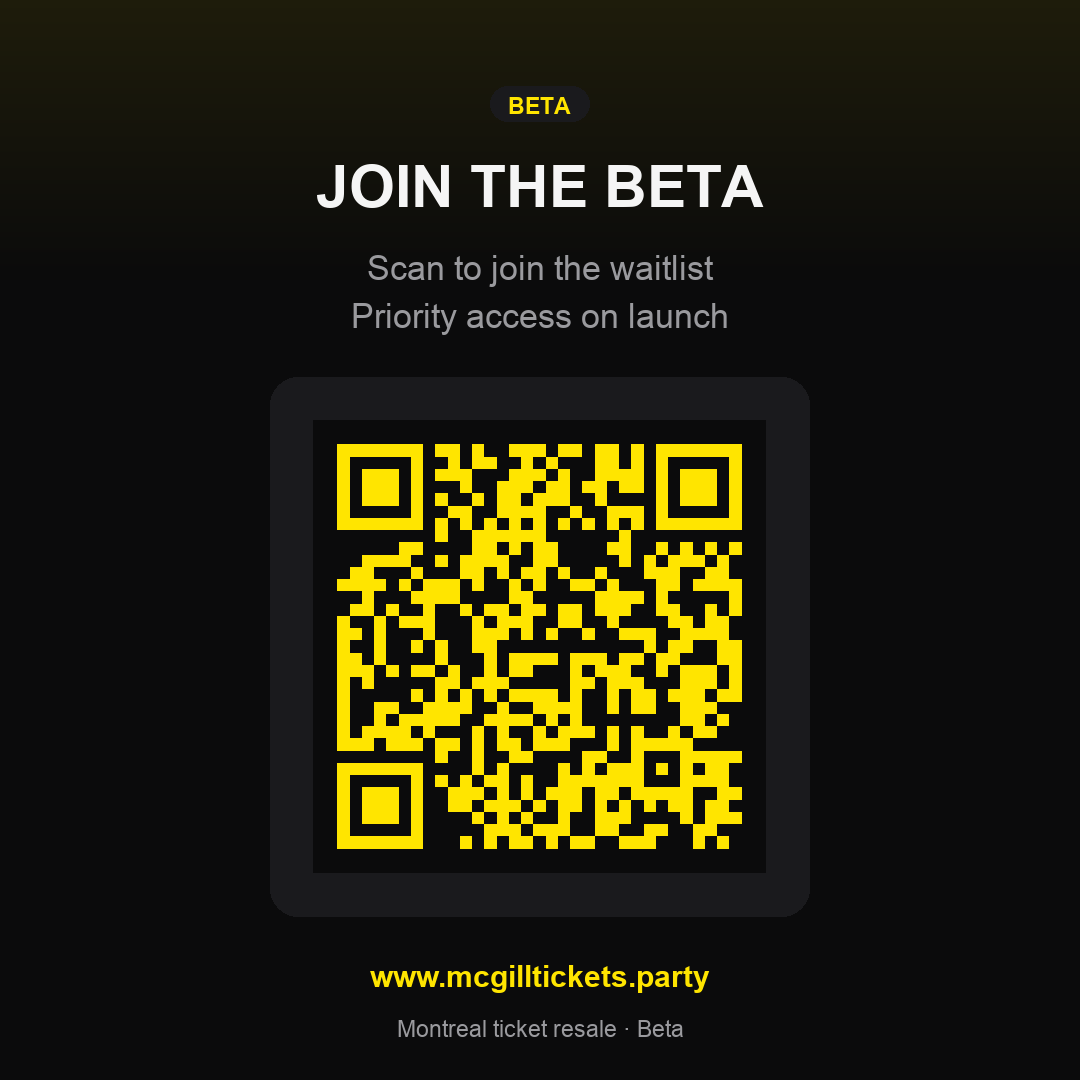
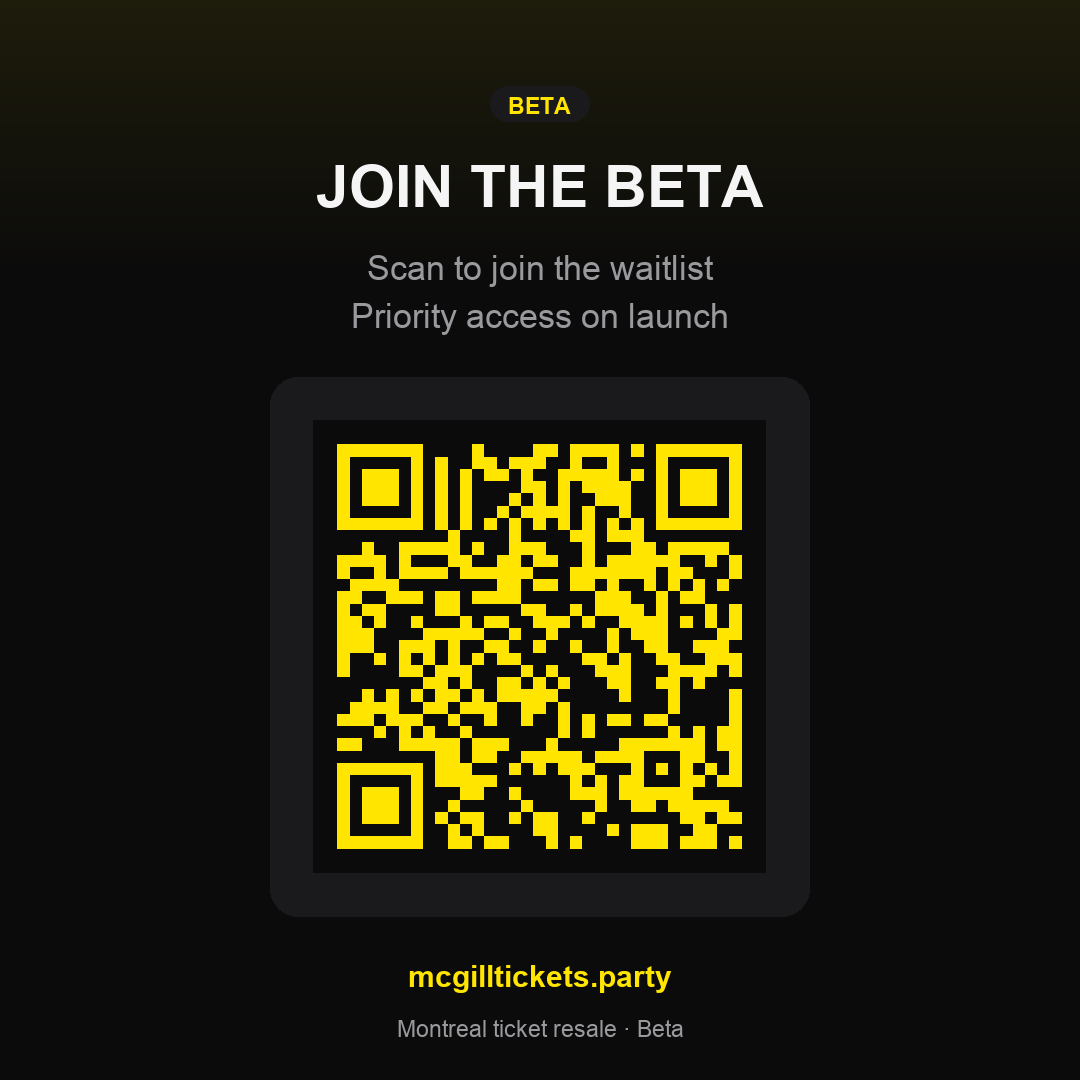
Use apex mcgilltickets.party and drop mcgill.tickets from launch headline.

Changed region(s): [[0.3056, 0.3972, 0.7028, 0.7944], [0.3361, 0.8861, 0.6722, 0.9167]]

diff --git a/src/app/qr/page.tsx b/src/app/qr/page.tsx
@@ -1,8 +1,8 @@
 import type { Metadata } from "next";
 
 export const metadata: Metadata = {
-  title: "Join the beta · mcgill.tickets",
-  description: "Scan to join the mcgill.tickets beta waitlist.",
+  title: "Join the beta · mcgilltickets.party",
+  description: "Scan to join the mcgilltickets.party beta waitlist.",
   robots: { index: false, follow: false },
 };
 
@@ -24,9 +24,7 @@ export default function QrDisplayPage() {
 
       <p className="relative section-header text-[12px] tracking-[0.12em] text-[#ffe500]">Beta</p>
       <h1 className="relative headline mt-4 max-w-xl text-[34px] leading-[1.12] tracking-tight sm:text-[44px]">
-        THE MCGILL.TICKETS
-        <br />
-        APP IS LAUNCHING SOON
+        THE APP IS LAUNCHING SOON
       </h1>
       <p className="relative mt-4 max-w-sm text-[15px] leading-relaxed text-muted">
         Scan to join the waitlist — beta members get priority access on launch.
@@ -36,13 +34,13 @@ export default function QrDisplayPage() {
         {/* eslint-disable-next-line @next/next/no-img-element */}
         <img
           src="/qr/beta-signup-qr-branded.png"
-          alt="QR code linking to the mcgill.tickets beta signup"
+          alt="QR code linking to the mcgilltickets.party beta signup"
           className="h-[220px] w-[220px] sm:h-[280px] sm:w-[280px]"
         />
       </div>
 
       <p className="relative mt-6 text-[14px] font-semibold text-[#ffe500]">
-        www.mcgilltickets.party
+        mcgilltickets.party
       </p>
       <p className="relative mt-8 text-[12px] text-muted">
         Download posters in <code className="text-ink/80">/qr/</code> — square, portrait, and story.

diff --git a/src/components/beta-waitlist/waitlist-flow.tsx b/src/components/beta-waitlist/waitlist-flow.tsx
@@ -335,7 +335,7 @@ function IdentityStep({ answers, setAnswers }: StepProps) {
     <div className="flex flex-col gap-6">
       <div>
         <h1 className="headline text-[34px] leading-[1.15] tracking-tight">
-          THE MCGILL.TICKETS APP IS LAUNCHING SOON
+          THE APP IS LAUNCHING SOON
         </h1>
         <p className="mt-4 text-[17px] font-semibold text-[#ffe500]">This is our beta.</p>
         <p className="mt-3 text-[15px] leading-relaxed text-muted">
